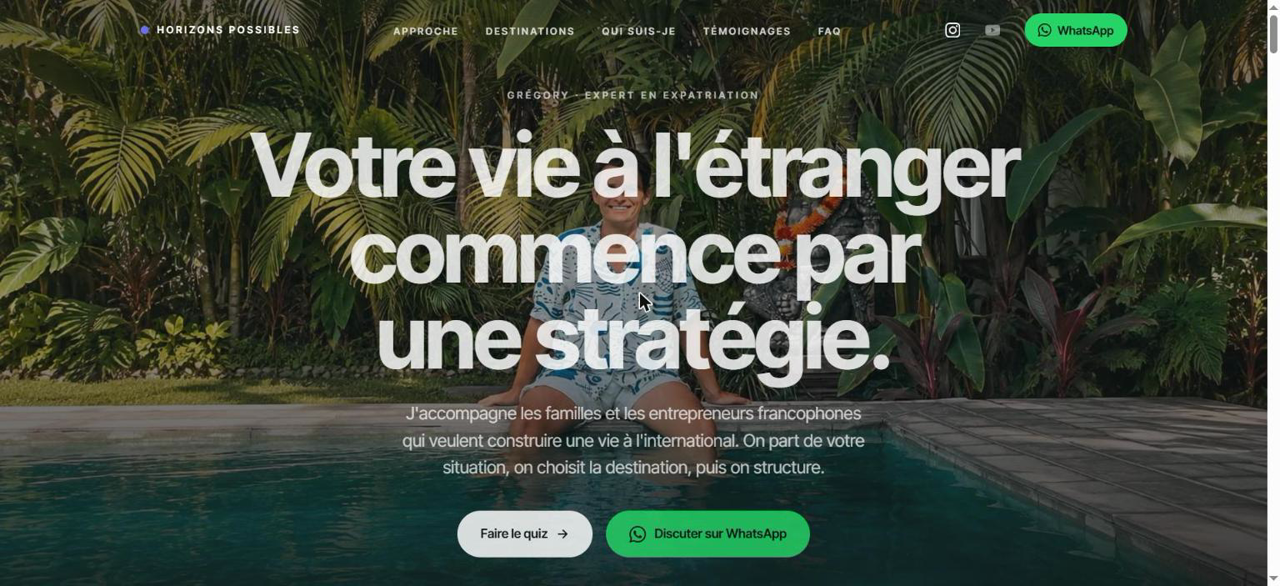
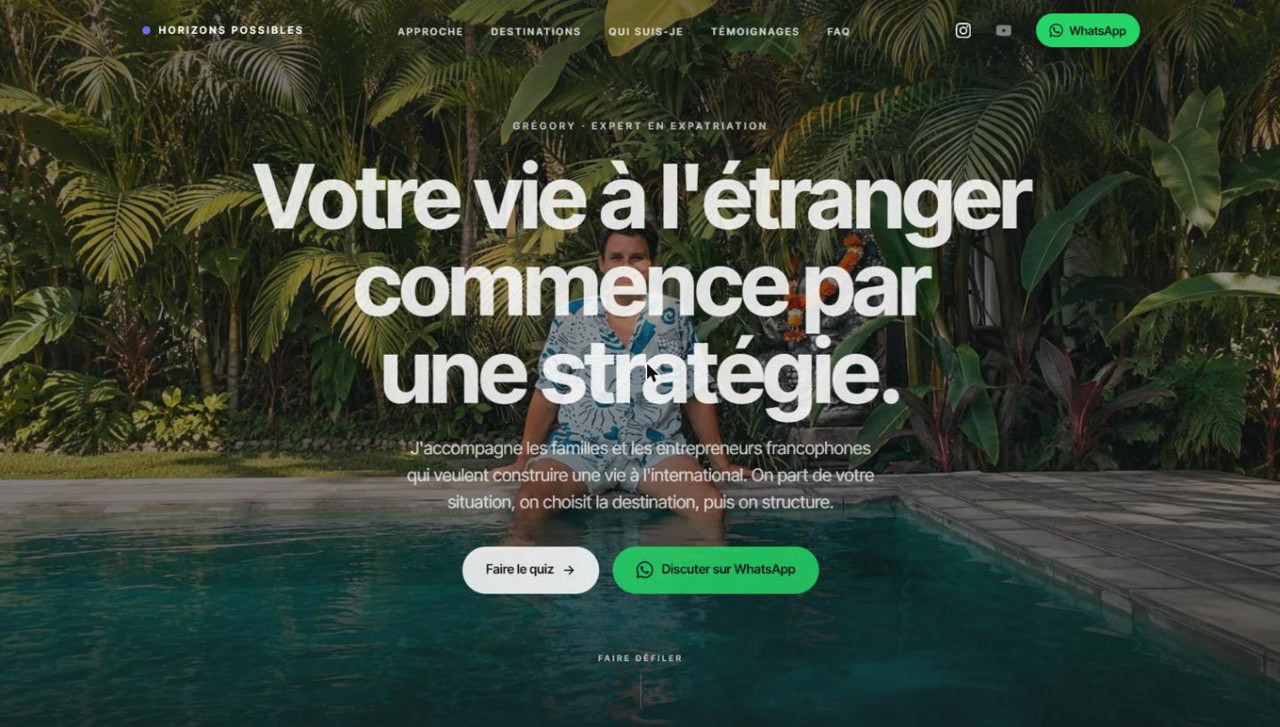
feat(horizons): expand project with 4 pages, mobile screens, GA4
- Témoignages page (13-video grid), Pays pages (Thaïlande hero + details)
  and Mobile section added to pagesInfoArr
- 7 screenshots total: 4 desktop (cropped, no scrollbar) + 3 mobile
  (390px viewport via CSS injection, scaled to 780px)
- Remove old services/features screenshots (merged into homepage page)
- Update EN/FR translations for new page titles and descriptions
- Bullet points updated: country pages, video testimonials, GA4 tracking
- Enable Google Analytics 4 via NEXT_PUBLIC_GOOGLE_MEASUREMENT_ID env var

diff --git a/locales/fr.ts b/locales/fr.ts
@@ -168,14 +168,16 @@ export default {
 
     'projects.horizonspossibles.description': "Site de coaching en expatriation aidant les familles et entrepreneurs francophones à construire une vie à l'étranger, développé avec Next.js.",
     'projects.horizonspossibles.desktopdesc': "Hero de la page d'accueil présentant la proposition de valeur avec un fond immersif plein écran, des boutons CTA clairs et une navigation épurée ciblant entrepreneurs et familles.",
-    'projects.horizonspossibles.servicesdesc': "Section services présentant deux parcours d'accompagnement sur mesure pour digital nomades et entrepreneurs, couvrant structure juridique, bancaire, visa et résidence fiscale.",
+    'projects.horizonspossibles.temoignagesdesc': "Page témoignages présentant 13 avis vidéo de vrais clients — familles, entrepreneurs et futurs expatriés — dans une grille sombre épurée.",
+    'projects.horizonspossibles.paysdesc': "Pages pays dédiées (Thaïlande, Mexique, Bali, Vietnam…) avec hero immersif, données clés (langue, monnaie, décalage horaire, vol), profils cibles, points forts et vigilances.",
+    'projects.horizonspossibles.mobiledesc': "Vues optimisées mobile de la page d'accueil, de la grille témoignages et des pages pays — mise en page entièrement responsive adaptée aux petits écrans.",
     'projects.horizonspossibles.detailsdesc': `Conception et développement d'un site de coaching orienté conversion pour Grégory, expert en expatriation accompagnant les familles et entrepreneurs francophones dans leur installation à l'étranger.
-        Le site est structuré autour de deux parcours distincts (entrepreneurs et familles), chacun avec un contenu dédié, des éléments de réassurance et un CTA WhatsApp direct.
-        Le design adopte une typographie bold et affirmée, avec un hero immersif et une hiérarchie de sections claire pour guider les visiteurs vers la prise de contact.`,
+        Le site est construit autour de deux parcours d'accompagnement (entrepreneurs et familles), 9 pages pays détaillées, une page de 13 témoignages vidéo, un quiz interactif et un CTA WhatsApp.
+        Le design adopte une typographie bold et affirmée, avec des heroes immersifs, une section témoignages en thème sombre et une hiérarchie de contenu claire sur toutes les pages.`,
     'projects.horizonspossibles.bullet1': "Deux parcours distincts : entrepreneurs (société, banque, visa, fiscalité) et familles (école, logement, visa)",
-    'projects.horizonspossibles.bullet2': "Structure orientée conversion avec CTA WhatsApp et quiz de qualification des prospects",
-    'projects.horizonspossibles.bullet3': "Hero immersif à la typographie bold et réassurance via témoignages clients",
-    'projects.horizonspossibles.bullet4': "Design responsive optimisé desktop et mobile",
+    'projects.horizonspossibles.bullet2': "9 pages pays avec données clés, profils, points forts/vigilances et système de notation comparative",
+    'projects.horizonspossibles.bullet3': "Page témoignages avec 13 vidéos de clients (familles et entrepreneurs)",
+    'projects.horizonspossibles.bullet4': "Structure orientée conversion : CTA WhatsApp, quiz de qualification et tracking Google Analytics 4",
 
 } as const
 

diff --git a/locales/en.ts b/locales/en.ts
@@ -170,14 +170,16 @@ export default {
 
     'projects.horizonspossibles.description': "Expat coaching website helping French families and entrepreneurs build a life abroad, built with Next.js.",
     'projects.horizonspossibles.desktopdesc': "Homepage hero presenting the value proposition with an immersive full-screen background, clear CTA buttons and clean navigation targeting entrepreneurs and families.",
-    'projects.horizonspossibles.servicesdesc': "Services section showcasing tailored coaching paths for digital nomads and entrepreneurs, covering company structure, banking, visas and tax residency.",
+    'projects.horizonspossibles.temoignagesdesc': "Testimonials page featuring 13 video reviews from real clients — families, entrepreneurs and future expats — displayed in a dark-themed grid layout.",
+    'projects.horizonspossibles.paysdesc': "Dedicated country pages (Thaïlande, Mexique, Bali, Vietnam…) with immersive hero photos, country facts (language, currency, timezone, flight time), target profiles, strengths and watchouts.",
+    'projects.horizonspossibles.mobiledesc': "Mobile-optimized views of the homepage, testimonials grid and country pages — fully responsive layout adapted for smaller screens.",
     'projects.horizonspossibles.detailsdesc': `Design and development of a conversion-focused coaching website for Grégory, an expat expert helping French-speaking families and entrepreneurs relocate abroad.
-        The site is structured around two distinct coaching paths (entrepreneurs and families), each with dedicated content, trust-building elements, and direct WhatsApp CTA.
-        The design uses a bold typographic approach with an immersive hero and clear section hierarchy to guide visitors toward booking a consultation.`,
+        The site is built around two coaching paths (entrepreneurs and families), 9 detailed country destination pages, a 13-video testimonials page, an interactive quiz and a WhatsApp CTA.
+        The design uses a bold typographic approach with immersive heroes, a dark-themed testimonials section and a consistent light/dark content hierarchy across all pages.`,
     'projects.horizonspossibles.bullet1': "Two distinct coaching paths: entrepreneurs (company, banking, visa, tax) and families (school, housing, visa)",
-    'projects.horizonspossibles.bullet2': "Conversion-focused structure with WhatsApp CTA and quiz funnel to qualify leads",
-    'projects.horizonspossibles.bullet3': "Immersive hero with bold typography and social proof through testimonials",
-    'projects.horizonspossibles.bullet4': "Responsive design optimized for desktop and mobile",
+    'projects.horizonspossibles.bullet2': "9 country destination pages with facts, profiles, strengths/watchouts and a comparison scoring system",
+    'projects.horizonspossibles.bullet3': "13-video testimonials page with client reviews from families and entrepreneurs",
+    'projects.horizonspossibles.bullet4': "Conversion-focused structure: WhatsApp CTA, lead-qualifying quiz, and Google Analytics 4 tracking",
 
 } as const
 

diff --git a/config/projects.ts b/config/projects.ts
@@ -2,8 +2,12 @@ import { getI18n } from "@/locales/server";
 import { ValidCategory, ValidExpType, ValidSkills } from "./constants";
 import balijewelryhome from "@/public/projects/balijewelry/balijewelryhome.png";
 import horizonsHomepage from "@/public/projects/horizonspossibles/horizons-homepage.png";
-import horizonsServices from "@/public/projects/horizonspossibles/horizons-services.png";
-import horizonsFeatures from "@/public/projects/horizonspossibles/horizons-features.png";
+import horizonsTemoignages from "@/public/projects/horizonspossibles/horizons-temoignages.png";
+import horizonsPaysHero from "@/public/projects/horizonspossibles/horizons-pays-hero.png";
+import horizonsPaysDetails from "@/public/projects/horizonspossibles/horizons-pays-details.png";
+import horizonsMobileHome from "@/public/projects/horizonspossibles/horizons-mobile-home.png";
+import horizonsMobileTemoignages from "@/public/projects/horizonspossibles/horizons-mobile-temoignages.png";
+import horizonsMobilePays from "@/public/projects/horizonspossibles/horizons-mobile-pays.png";
 import dashdesktop1 from "@/public/projects/dashboard/desktop1.png";
 import dashdesktop2 from "@/public/projects/dashboard/desktop2.png";
 import dashdesktop3 from "@/public/projects/dashboard/desktop3.png";
@@ -170,10 +174,22 @@ export async function createProjects(): Promise<ProjectInterface[]> {
             imgArr: [horizonsHomepage],
           },
           {
-            title: "Services & Coaching",
+            title: "Témoignages",
             description:
-              i18n('projects.horizonspossibles.servicesdesc'),
-            imgArr: [horizonsServices, horizonsFeatures],
+              i18n('projects.horizonspossibles.temoignagesdesc'),
+            imgArr: [horizonsTemoignages],
+          },
+          {
+            title: "Pages Pays",
+            description:
+              i18n('projects.horizonspossibles.paysdesc'),
+            imgArr: [horizonsPaysHero, horizonsPaysDetails],
+          },
+          {
+            title: "Mobile",
+            description:
+              i18n('projects.horizonspossibles.mobiledesc'),
+            imgArr: [horizonsMobileHome, horizonsMobileTemoignages, horizonsMobilePays],
           },
         ],
         descriptionDetails: {

diff --git a/app/[locale]/layout.tsx b/app/[locale]/layout.tsx
@@ -120,7 +120,9 @@ export default function RootLayout({ children }: RootLayoutProps) {
           <Toaster />
         </ThemeProvider>
       </body>
-      {/* <GoogleAnalytics gaId={GA_ID} /> */}
+      {process.env.NEXT_PUBLIC_GOOGLE_MEASUREMENT_ID && (
+        <GoogleAnalytics gaId={process.env.NEXT_PUBLIC_GOOGLE_MEASUREMENT_ID} />
+      )}
     </html>
   );
 }
